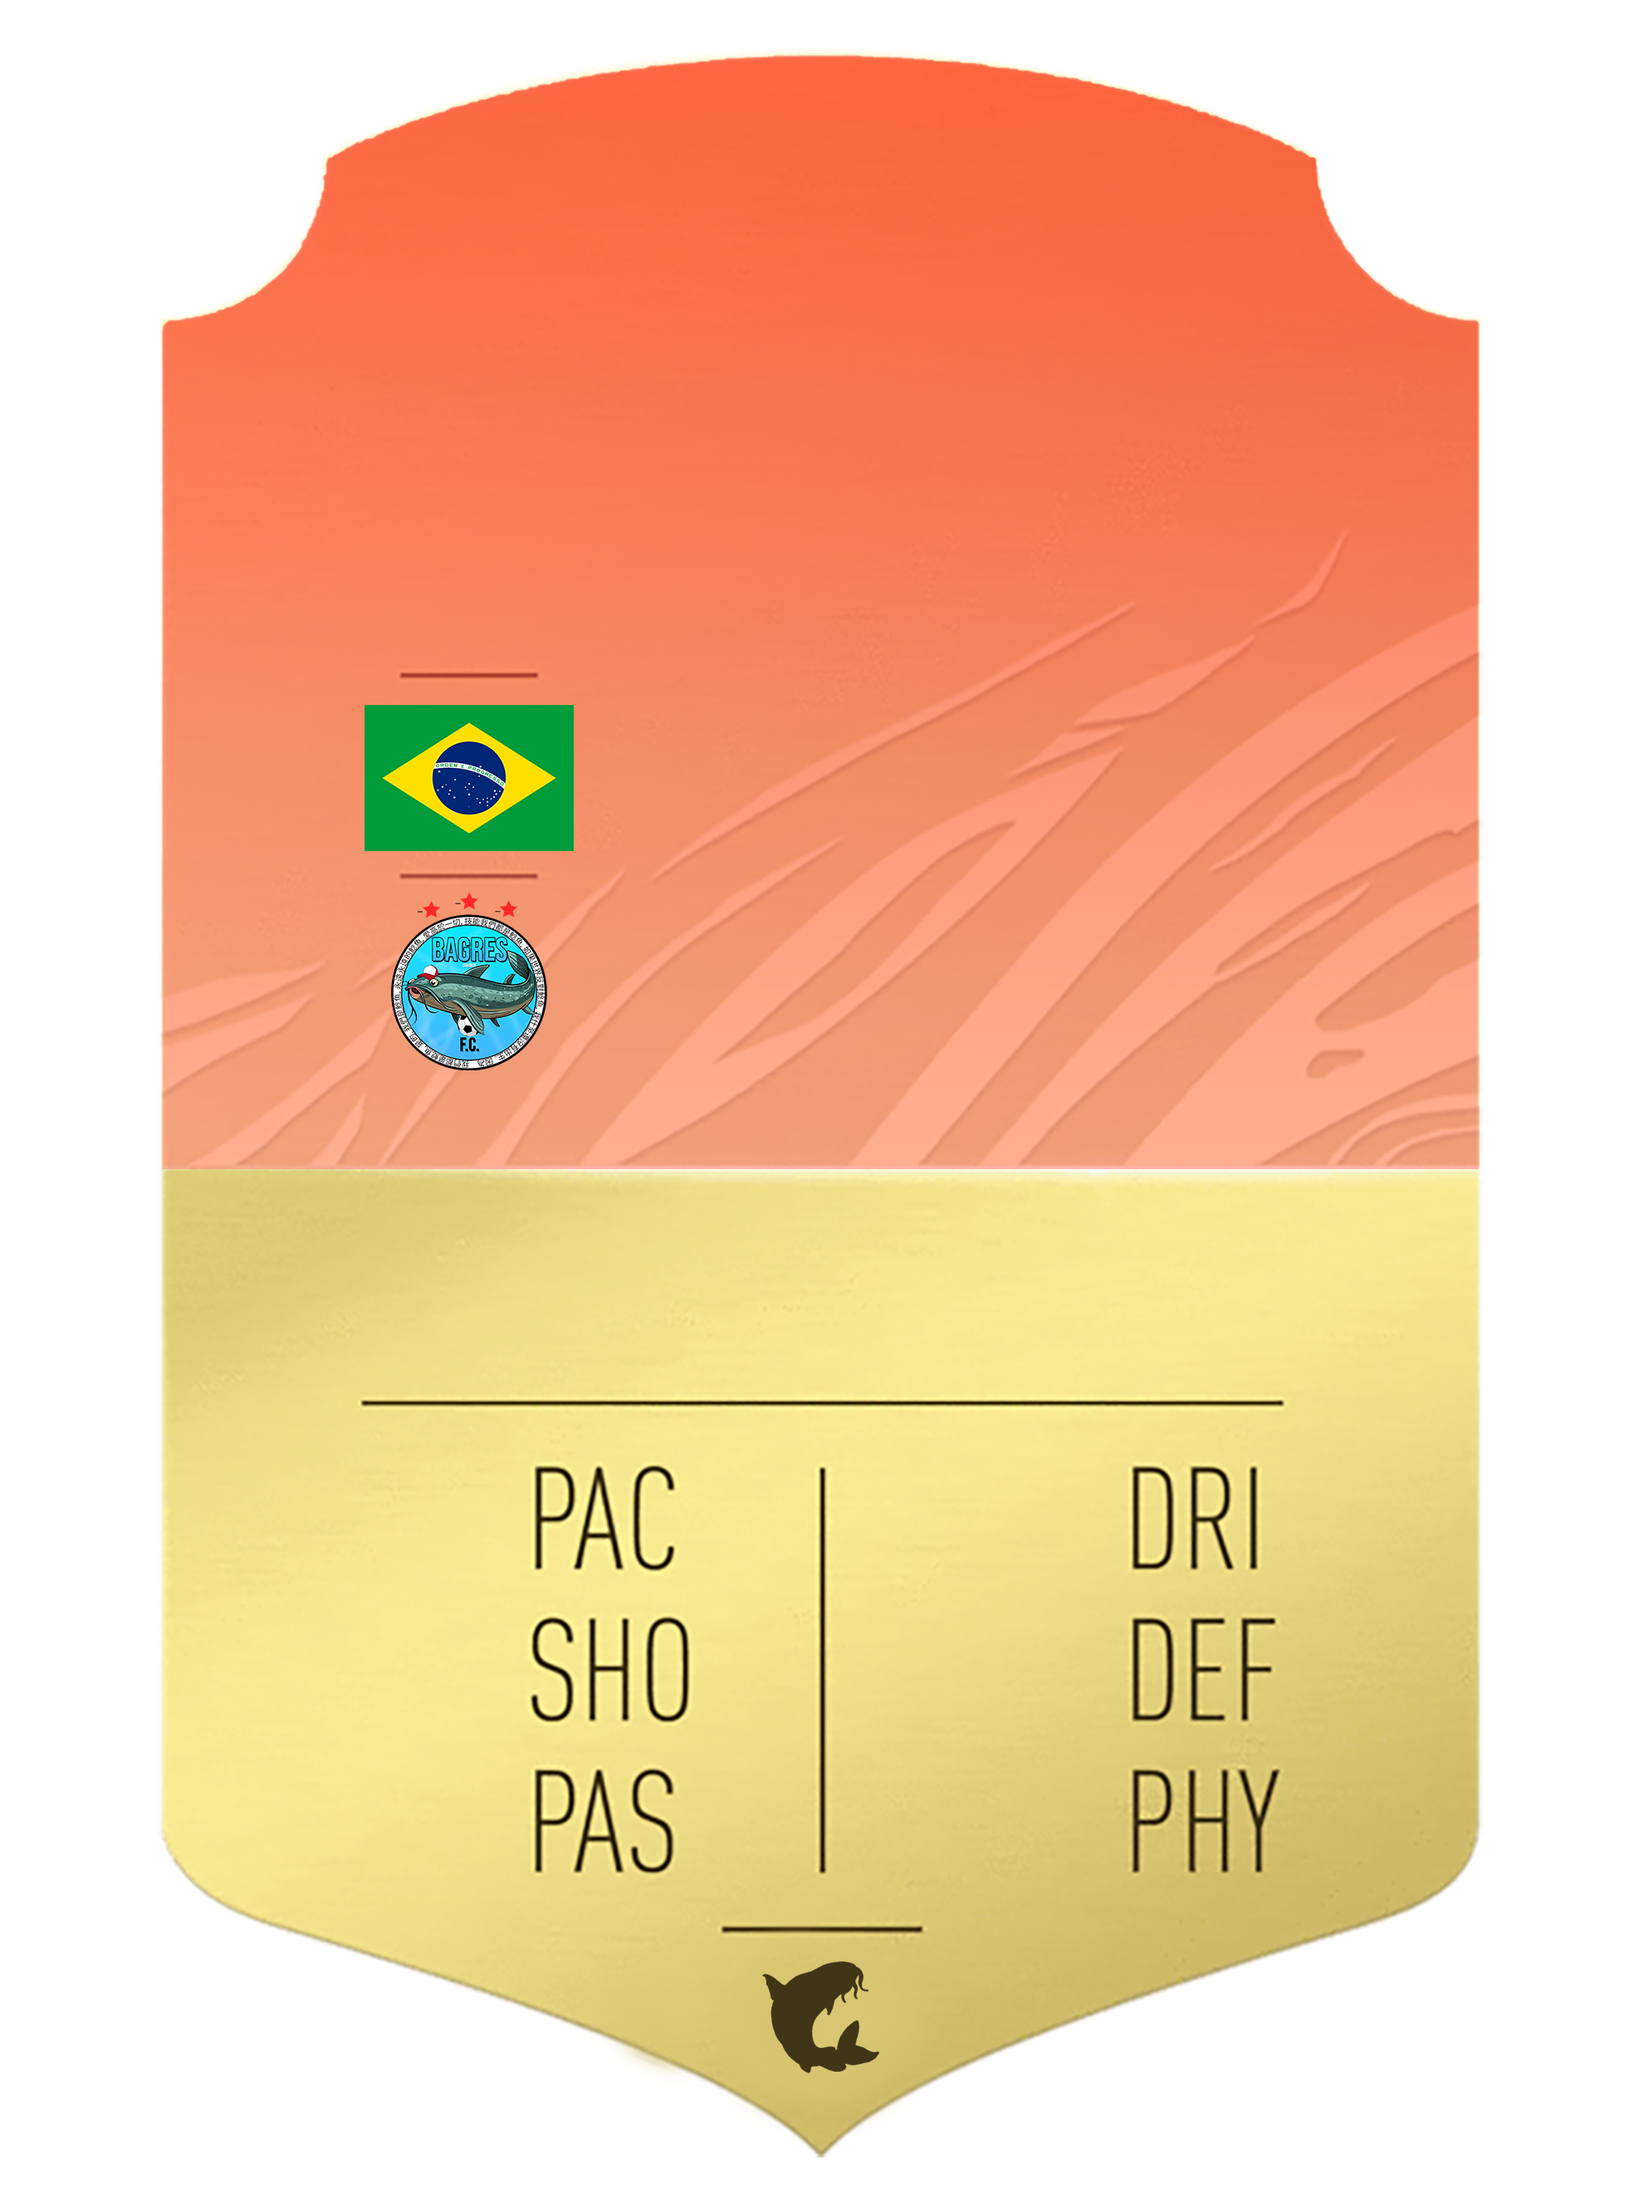
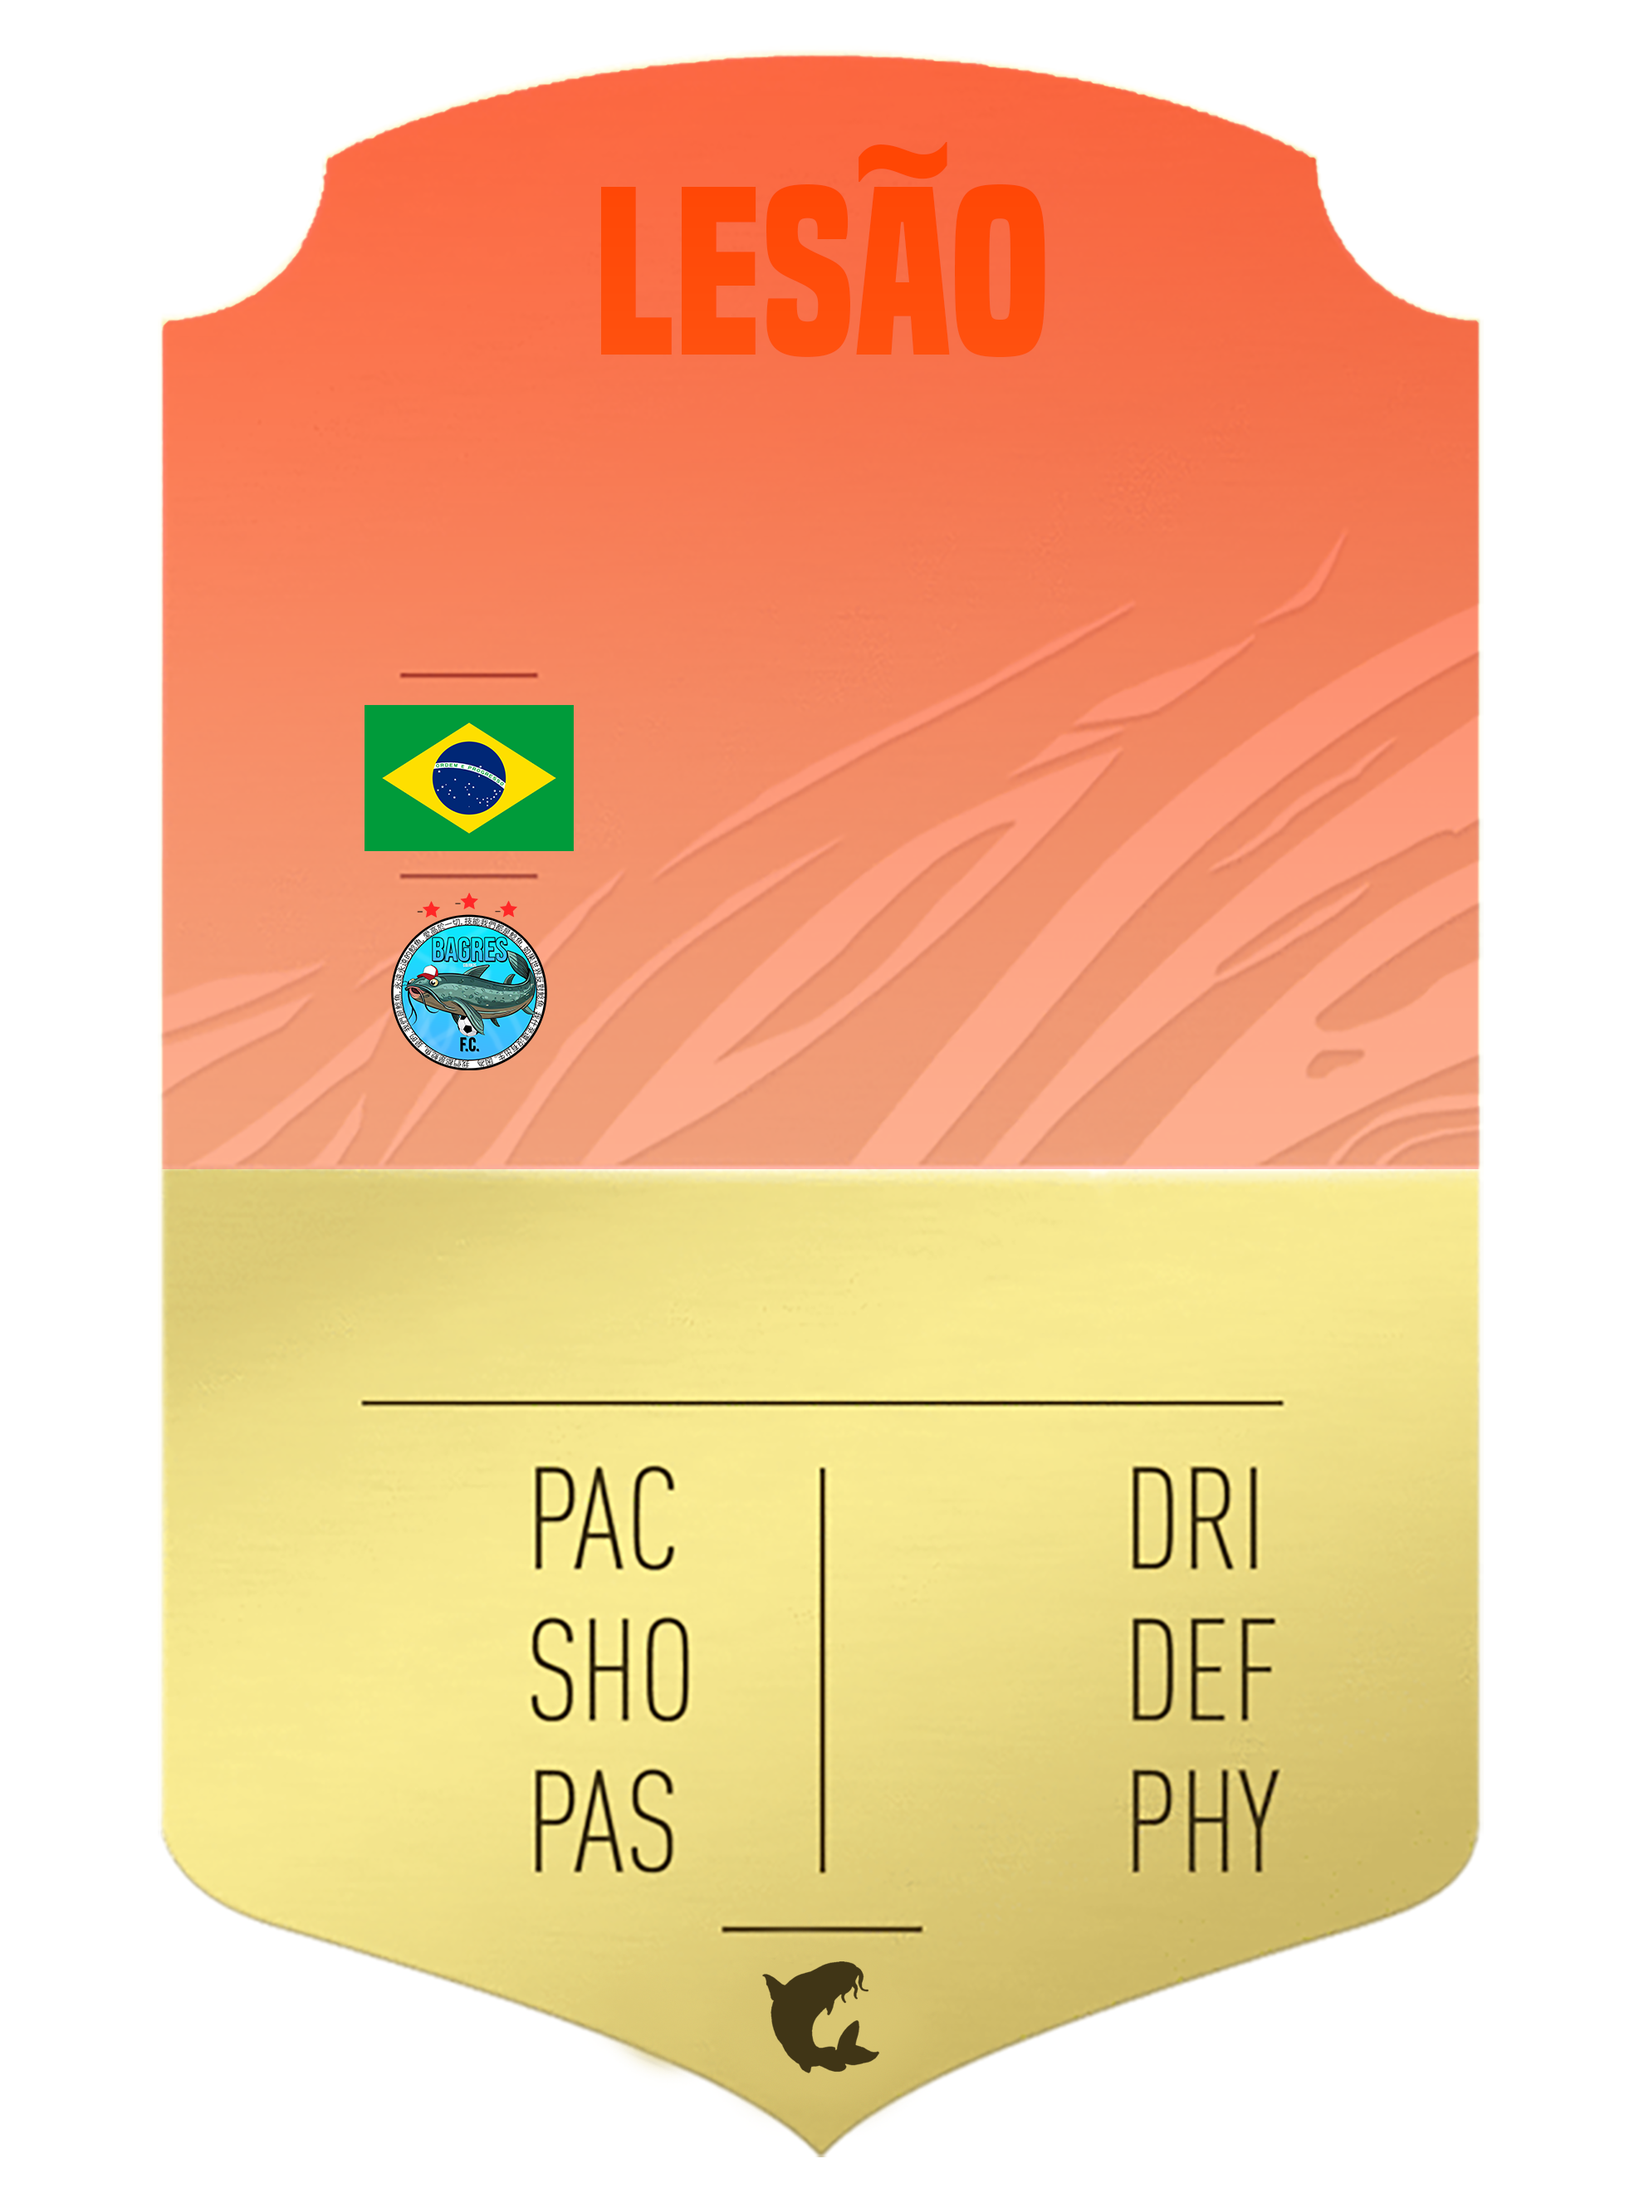
melhorando seção bagre de ouro, e altarando carta cinza lesionado

Changed region(s): [[0.3389, 0.0621, 0.647, 0.1863]]

diff --git a/app/Components/noticias/News.tsx b/app/Components/noticias/News.tsx
@@ -149,7 +149,17 @@ function News() {
                 pointerEvents: "none",
               }}
             />
-            <div style={{ transform: "scale(1.1)" }}>
+            <img
+              src="./img/bagredor.png"
+              style={{
+                position: "absolute",
+                pointerEvents: "none",
+                width: "200px",
+                top: "-60px",
+              }}
+            />
+
+            <div>
               {JogadorSelecionado ? (
                 <Cardplayer
                   nome={JogadorSelecionado.nome}

diff --git a/app/Components/cardPlayer/Cardplayer.tsx b/app/Components/cardPlayer/Cardplayer.tsx
@@ -127,7 +127,7 @@ const Cardplayer: React.FC<CardProp> = ({
           //modelos de cards: ouro lesionado, ouro, prata lesionado ou prata
           //(posicao === X) é estar lesionado
           posicao === "X" && !isBagredeOuro
-            ? "https://res.cloudinary.com/dtpsqmz73/image/upload/v1724867061/glq9batynfd41nzsw3kf.png"
+            ? "./img/cardcinzalesao.png"
             : posicao === "X" && isBagredeOuro
             ? "./img/bagredeourolesionado.png"
             : !isBagredeOuro
